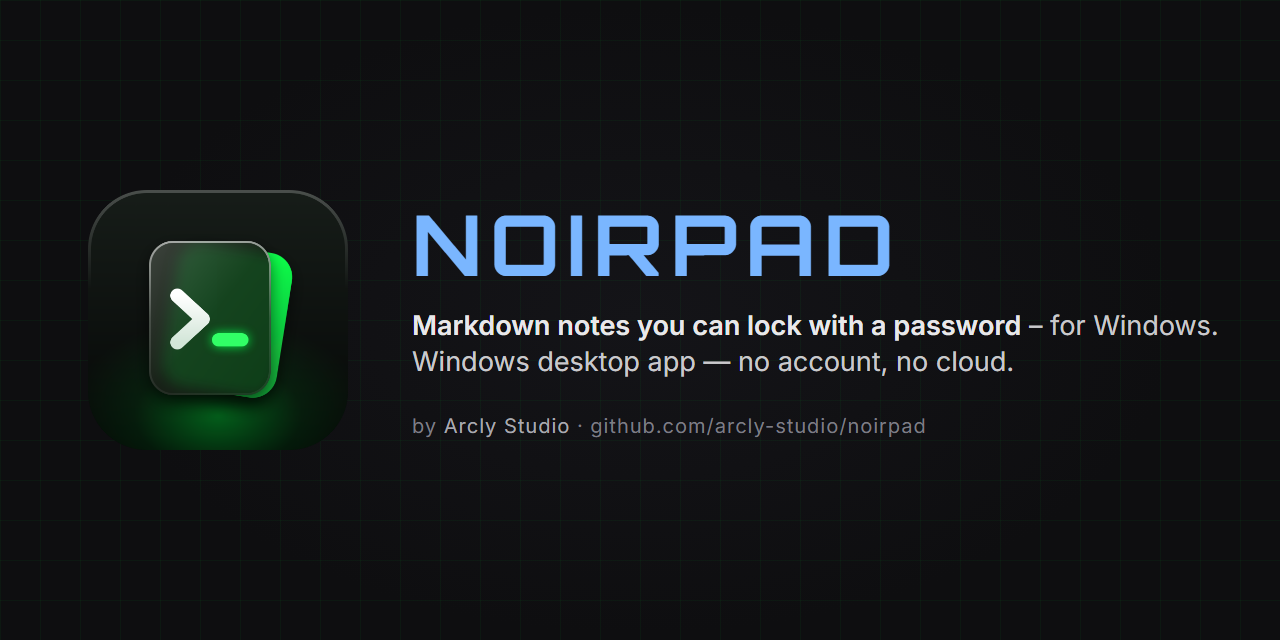
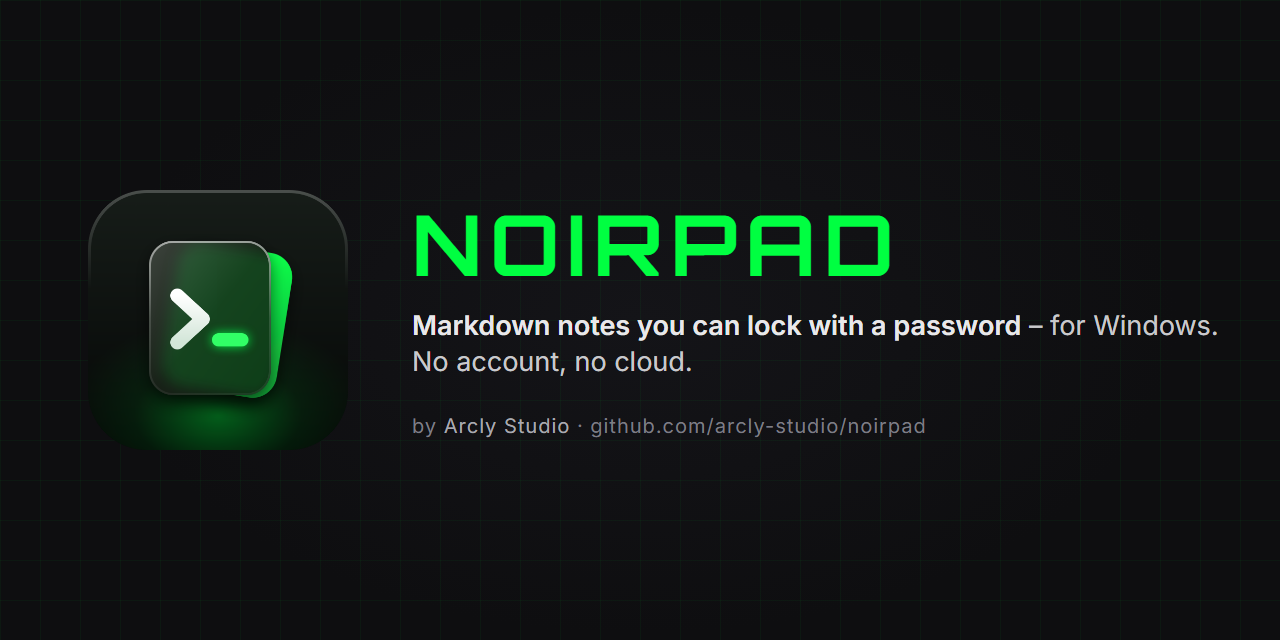
social-preview: zelený nadpis a druhý řádek „No account, no cloud.“
Nadpis v barvě akcentu loga (#00ff41), druhý řádek bez druhého „Windows“.
PNG přegenerované skriptem tools/make_icons.py (icons.json), test.

Changed region(s): [[0.3125, 0.3125, 0.7188, 0.4375], [0.3125, 0.5312, 0.7812, 0.5938]]

diff --git a/docs/brand/social-preview.html b/docs/brand/social-preview.html
@@ -7,7 +7,7 @@ html,body{margin:0;width:1280px;height:640px;overflow:hidden;background:#0e0e10}
 .grid{position:absolute;inset:0;background-image:linear-gradient(rgba(0,255,65,.045) 1px,transparent 1px),linear-gradient(90deg,rgba(0,255,65,.045) 1px,transparent 1px);background-size:40px 40px}
 img{width:260px;height:260px;position:relative}
 .t{position:relative;color:#e8e8ea;font-family:'Inter',sans-serif}
-h1{margin:0;font-family:'Orbitron',monospace;font-weight:700;font-size:84px;letter-spacing:8px;text-transform:uppercase;color:#7ab6ff;line-height:1}
+h1{margin:0;font-family:'Orbitron',monospace;font-weight:700;font-size:84px;letter-spacing:8px;text-transform:uppercase;color:#00ff41;line-height:1}
 p{margin:22px 0 0;font-size:27px;font-weight:400;color:#c9c9cc;max-width:780px;line-height:1.35}
 .nw{white-space:nowrap}
 p b{color:#e8e8ea;font-weight:600}
@@ -15,5 +15,5 @@ p b{color:#e8e8ea;font-weight:600}
 .by span{color:#a9a9b0}
 </style></head><body><div class="wrap"><div class="grid"></div>
 <img src="../../docs/brand/noirpad-1024.png" alt="">
-<div class="t"><h1>NoirPad</h1><p><span class="nw"><b>Markdown notes you can lock with a password</b> – for Windows.</span><br>Windows desktop app — no account, no cloud.</p><div class="by">by <span>Arcly Studio</span> · github.com/arcly-studio/noirpad</div></div>
+<div class="t"><h1>NoirPad</h1><p><span class="nw"><b>Markdown notes you can lock with a password</b> – for Windows.</span><br>No account, no cloud.</p><div class="by">by <span>Arcly Studio</span> · github.com/arcly-studio/noirpad</div></div>
 </div></body></html>

diff --git a/tests/test_privacy.py b/tests/test_privacy.py
@@ -145,3 +145,11 @@ def test_component_name_in_readme_only_in_install(name, install):
     section = re.search(rf"(?ms)^## {install}\n.*?(?=^## )", text).group(0)
     assert COMPONENT.search(section)
     assert not COMPONENT.search(text.replace(section, ""))
+
+
+def test_social_preview_title_and_second_line():
+    """Green title (logo accent), second line without a second "Windows"."""
+    html = _read("docs/brand/social-preview.html")
+    assert re.search(r"h1\{[^}]*color:#00ff41", html)
+    assert "<br>No account, no cloud.</p>" in html
+    assert "7ab6ff" not in html.lower()
